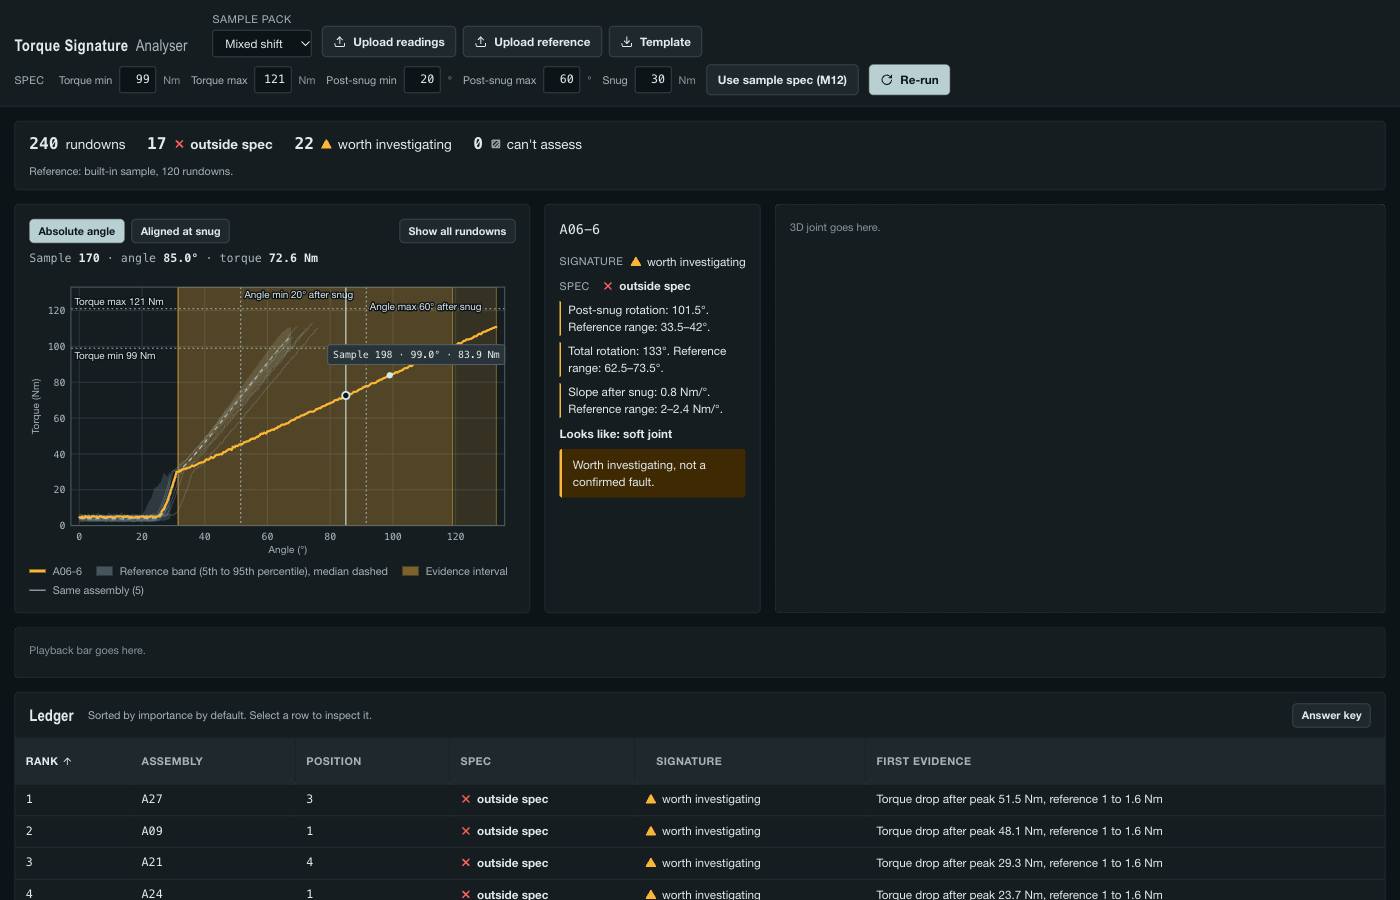
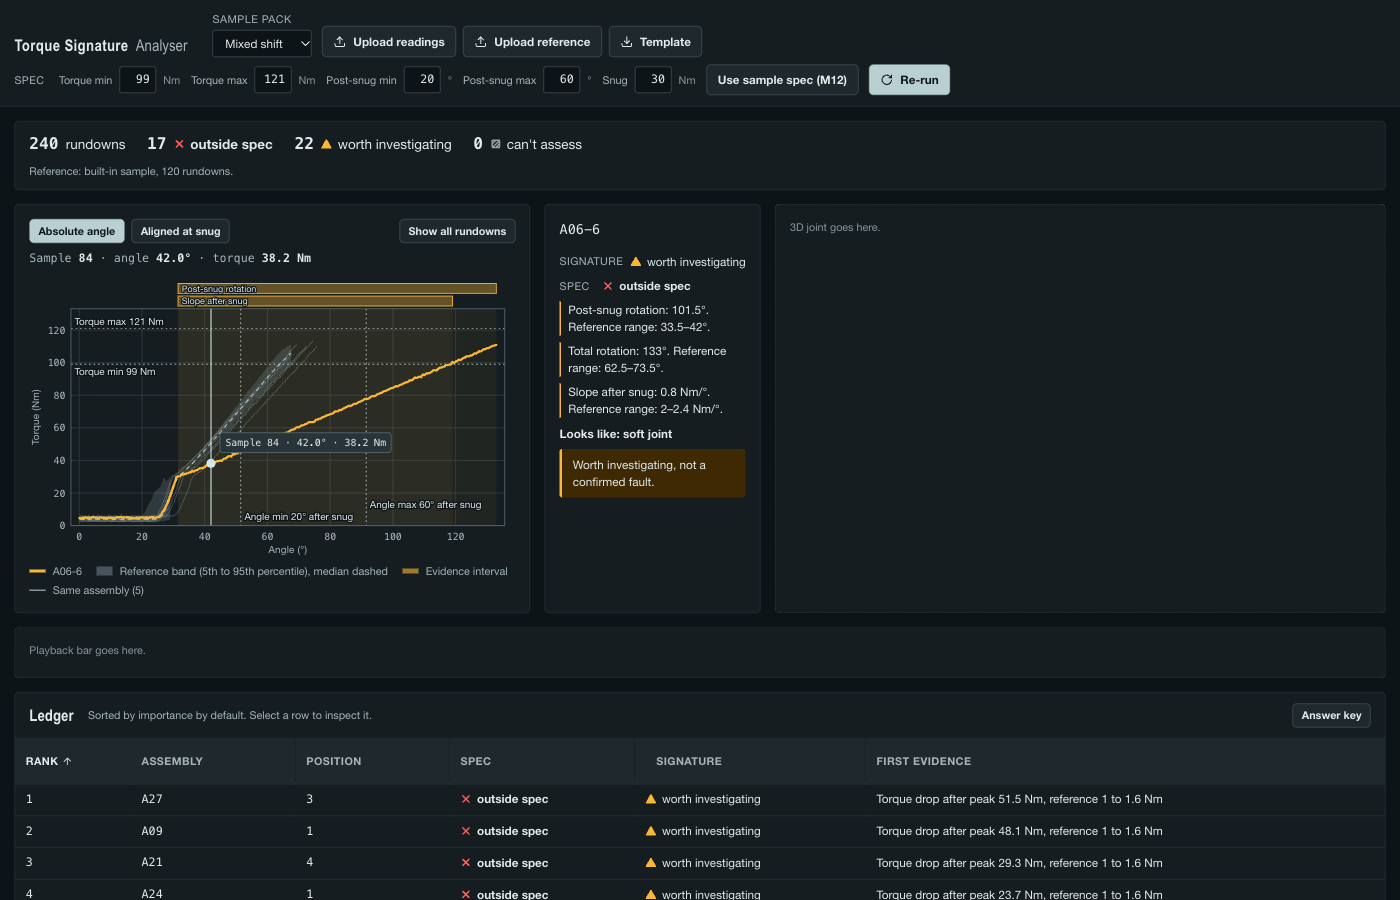
fix(torque): evidence strips on graph, tested evidence copy

Changed region(s): [[0.0307, 0.28, 0.3686, 0.5911], [0.2764, 0.6222, 0.3071, 0.6533]]

diff --git a/apps/torque-signature-analyser/web/src/components/TorqueGraph.jsx b/apps/torque-signature-analyser/web/src/components/TorqueGraph.jsx
@@ -1,8 +1,9 @@
 import { useEffect, useMemo, useRef, useState } from 'react';
-import { makeScales, alignAtSnug, nearestSampleIndex, decimateIndexes, bandRuns, lineRuns, niceTicks } from '../graph.js';
+import { makeScales, nearestSampleIndex, decimateIndexes, bandRuns, lineRuns, niceTicks } from '../graph.js';
 
 const NO_SNUG_NOTE = 'No snug point: shown in absolute view only';
-const MARGIN = { l: 46, r: 12, t: 14, b: 34 };
+const MARGIN = { l: 46, r: 12, t: 10, b: 34 };
+const STRIP_H = 14;
 const MAX_FAINT = 5;
 const MAX_ALL_POINTS = 150;
 
@@ -131,7 +132,9 @@ export default function TorqueGraph({ result, selected, cursor, mode, onMode, on
   }
 
   const { shift, bands, medians, domain, angleLines, faint } = model;
-  const sc = makeScales(domain, { width, height, margin: MARGIN });
+  const intervals = (selected.evidence ?? []).filter((ev) => ev.interval);
+  const margin = { ...MARGIN, t: MARGIN.t + intervals.length * STRIP_H };
+  const sc = makeScales(domain, { width, height, margin });
   const { plot } = sc;
   const curve = selected.curve;
   const n = curve.angle.length;
@@ -143,7 +146,7 @@ export default function TorqueGraph({ result, selected, cursor, mode, onMode, on
   const indexFromEvent = (e) => {
     const rect = svgRef.current.getBoundingClientRect();
     const px = ((e.clientX - rect.left) / rect.width) * width;
-    return nearestSampleIndex(alignAtSnug(curve, shift), sc.invertX(px));
+    return nearestSampleIndex(curve, sc.invertX(px) + shift);
   };
   const onDown = (e) => {
     dragging.current = true;
@@ -176,7 +179,6 @@ export default function TorqueGraph({ result, selected, cursor, mode, onMode, on
   const tipW = tipText.length * 6.6 + 12;
   const tipX = Math.min(Math.max(hx + 10, plot.left), plot.right - tipW);
   const tipY = hy - 34 < plot.top ? hy + 12 : hy - 34;
-  const intervals = (selected.evidence ?? []).filter((ev) => ev.interval);
 
   return (
     <div className="graph" ref={wrap}>
@@ -191,8 +193,12 @@ export default function TorqueGraph({ result, selected, cursor, mode, onMode, on
           viewBox={`0 0 ${width} ${height}`}
           width="100%"
           height={height}
-          role="img"
-          aria-label={`Torque against angle for ${selected.id}. Arrow keys move the sample cursor.`}
+          role="slider"
+          aria-label={`Sample cursor on the torque-angle graph for ${selected.id}`}
+          aria-valuemin={0}
+          aria-valuemax={n - 1}
+          aria-valuenow={ci}
+          aria-valuetext={`Sample ${ci}, angle ${fmt(curve.angle[ci])}°, torque ${fmt(curve.torque[ci])} Nm`}
           tabIndex={0}
           onPointerDown={onDown}
           onPointerMove={onMove}
@@ -223,14 +229,13 @@ export default function TorqueGraph({ result, selected, cursor, mode, onMode, on
           <text className="g-axis" transform={`translate(11 ${(plot.top + plot.bottom) / 2}) rotate(-90)`} textAnchor="middle">Torque (Nm)</text>
 
           <g clipPath="url(#plot-clip)">
+            {intervals.map((ev) => {
+              const x0 = Math.max(plot.left, sc.x(ev.interval[0] - shift));
+              const x1 = Math.min(plot.right, sc.x(ev.interval[1] - shift));
+              return <rect key={`f${ev.feature}`} className="g-interval-fill" x={x0} y={plot.top} width={Math.max(2, x1 - x0)} height={plot.bottom - plot.top} />;
+            })}
             {bands.map((runs, k) => <path key={`b${k}`} className="g-band" d={bandPath(runs, sc.x, sc.y)} />)}
             {medians.map((runs, k) => <path key={`m${k}`} className="g-median" d={linePath(runs, sc.x, sc.y)} />)}
-
-            {intervals.map((ev) => {
-              const a = ev.interval[0] - shift;
-              const b = ev.interval[1] - shift;
-              return <rect key={ev.feature} className="g-interval" x={sc.x(a)} y={plot.top} width={Math.max(2, sc.x(b) - sc.x(a))} height={plot.bottom - plot.top} />;
-            })}
 
             {faint.map((f) => <path key={f.id} className="g-faint" d={curvePath(f.curve, f.idx, f.shift, sc.x, sc.y)} />)}
             <path className={`g-curve ${sigClass}`} d={curvePath(curve, decimateIndexes(n, 2000), shift, sc.x, sc.y)} />
@@ -251,7 +256,19 @@ export default function TorqueGraph({ result, selected, cursor, mode, onMode, on
             return (
               <g key={l.key}>
                 <line className="g-limit" x1={x} x2={x} y1={plot.top} y2={plot.bottom} />
-                <text className="g-limit-label" x={flip ? x - 4 : x + 4} y={plot.top + 12 + l.row * 14} textAnchor={flip ? 'end' : 'start'}>{l.label}</text>
+                <text className="g-limit-label" x={flip ? x - 4 : x + 4} y={plot.bottom - 6 - l.row * 14} textAnchor={flip ? 'end' : 'start'}>{l.label}</text>
+              </g>
+            );
+          })}
+
+          {intervals.map((ev, k) => {
+            const x0 = Math.max(plot.left, sc.x(ev.interval[0] - shift));
+            const x1 = Math.min(plot.right, sc.x(ev.interval[1] - shift));
+            const y = MARGIN.t + k * STRIP_H;
+            return (
+              <g key={`s${ev.feature}`}>
+                <rect className="g-interval" x={x0} y={y} width={Math.max(2, x1 - x0)} height={STRIP_H - 3} />
+                <text className="g-interval-label" x={x0 + 4} y={y + 9}>{ev.label}</text>
               </g>
             );
           })}

diff --git a/apps/torque-signature-analyser/web/src/app.css b/apps/torque-signature-analyser/web/src/app.css
@@ -168,7 +168,9 @@ button, input, select { font: inherit; color: inherit; }
 .g-axis { font-family: var(--font-ui); letter-spacing: 0.02em; }
 .g-band { fill: var(--color-steel); fill-opacity: 0.18; stroke: none; }
 .g-median { fill: none; stroke: var(--color-steel); stroke-width: 1.25; stroke-dasharray: 5 4; }
-.g-interval { fill: var(--color-amber); fill-opacity: 0.14; stroke: var(--color-amber); stroke-opacity: 0.5; stroke-width: 1; }
+.g-interval { fill: var(--color-amber); fill-opacity: 0.35; stroke: var(--color-amber); stroke-width: 1; }
+.g-interval-fill { fill: var(--color-amber); fill-opacity: 0.05; }
+.g-interval-label { fill: var(--color-text); font-size: 10px; paint-order: stroke; stroke: var(--color-paper); stroke-width: 2.5px; stroke-linejoin: round; }
 .g-faint { fill: none; stroke: var(--color-faint); stroke-opacity: 0.4; stroke-width: 1; }
 .g-curve { fill: none; stroke-width: 2.5; stroke-linejoin: round; stroke-linecap: round; }
 .curve-typical { stroke: var(--color-steel); background: var(--color-steel); }
@@ -186,7 +188,7 @@ button, input, select { font: inherit; color: inherit; }
 .key { display: inline-block; width: 18px; height: 0; border-top: 2px solid var(--color-muted); }
 .key-curve { height: 3px; border-top: 0; }
 .key-band { height: 10px; border-top: 0; background: var(--color-steel); opacity: 0.35; }
-.key-interval { height: 10px; border-top: 0; background: var(--color-amber); opacity: 0.45; }
+.key-interval { height: 6px; border-top: 0; background: var(--color-amber); opacity: 0.6; }
 .key-faint { border-top-color: var(--color-faint); }
 
 .evidence { display: grid; gap: var(--space-xs); align-content: start; }

diff --git a/apps/torque-signature-analyser/web/tests/format.test.js b/apps/torque-signature-analyser/web/tests/format.test.js
@@ -1,0 +1,16 @@
+import test from 'node:test';
+import assert from 'node:assert/strict';
+import { evidenceLine } from '../src/format.js';
+
+test('Nm line', () => {
+  const ev = { label: 'Final torque', value: 74.3, unit: 'Nm', ref_lo: 106.526, ref_hi: 114.977 };
+  assert.equal(evidenceLine(ev), 'Final torque: 74.3 Nm. Reference range: 106.5–115 Nm.');
+});
+test('degree line has no space before the unit', () => {
+  const ev = { label: 'Post-snug rotation', value: 21.5, unit: '°', ref_lo: 33.475, ref_hi: 42.025 };
+  assert.equal(evidenceLine(ev), 'Post-snug rotation: 21.5°. Reference range: 33.5–42°.');
+});
+test('Nm/° line', () => {
+  const ev = { label: 'Slope after snug', value: 0.8, unit: 'Nm/°', ref_lo: 2, ref_hi: 2.4 };
+  assert.equal(evidenceLine(ev), 'Slope after snug: 0.8 Nm/°. Reference range: 2–2.4 Nm/°.');
+});

diff --git a/apps/torque-signature-analyser/web/src/components/EvidencePanel.jsx b/apps/torque-signature-analyser/web/src/components/EvidencePanel.jsx
@@ -1,12 +1,5 @@
 import StatusMark from './StatusMark.jsx';
-
-const fmt = (v) => String(Math.round(v * 10) / 10);
-const withUnit = (v, unit) => (unit === '°' ? `${fmt(v)}°` : `${fmt(v)} ${unit}`);
-
-export function evidenceLine(ev) {
-  const range = `${fmt(ev.ref_lo)}–${withUnit(ev.ref_hi, ev.unit)}`;
-  return `${ev.label}: ${withUnit(ev.value, ev.unit)}. Reference range: ${range}.`;
-}
+import { evidenceLine } from '../format.js';
 
 export default function EvidencePanel({ selected }) {
   if (!selected) return <p className="slot-empty">Select a rundown to see why it was flagged.</p>;

diff --git a/apps/torque-signature-analyser/web/src/format.js b/apps/torque-signature-analyser/web/src/format.js
@@ -1,0 +1,9 @@
+// Pure copy helpers for the evidence panel.
+export const fmt = (v) => String(Math.round(v * 10) / 10);
+export const withUnit = (v, unit) => (unit === '°' ? `${fmt(v)}°` : `${fmt(v)} ${unit}`);
+
+/** "Label: value unit. Reference range: lo–hi unit." (no space before °) */
+export function evidenceLine(ev) {
+  const range = `${fmt(ev.ref_lo)}–${withUnit(ev.ref_hi, ev.unit)}`;
+  return `${ev.label}: ${withUnit(ev.value, ev.unit)}. Reference range: ${range}.`;
+}
